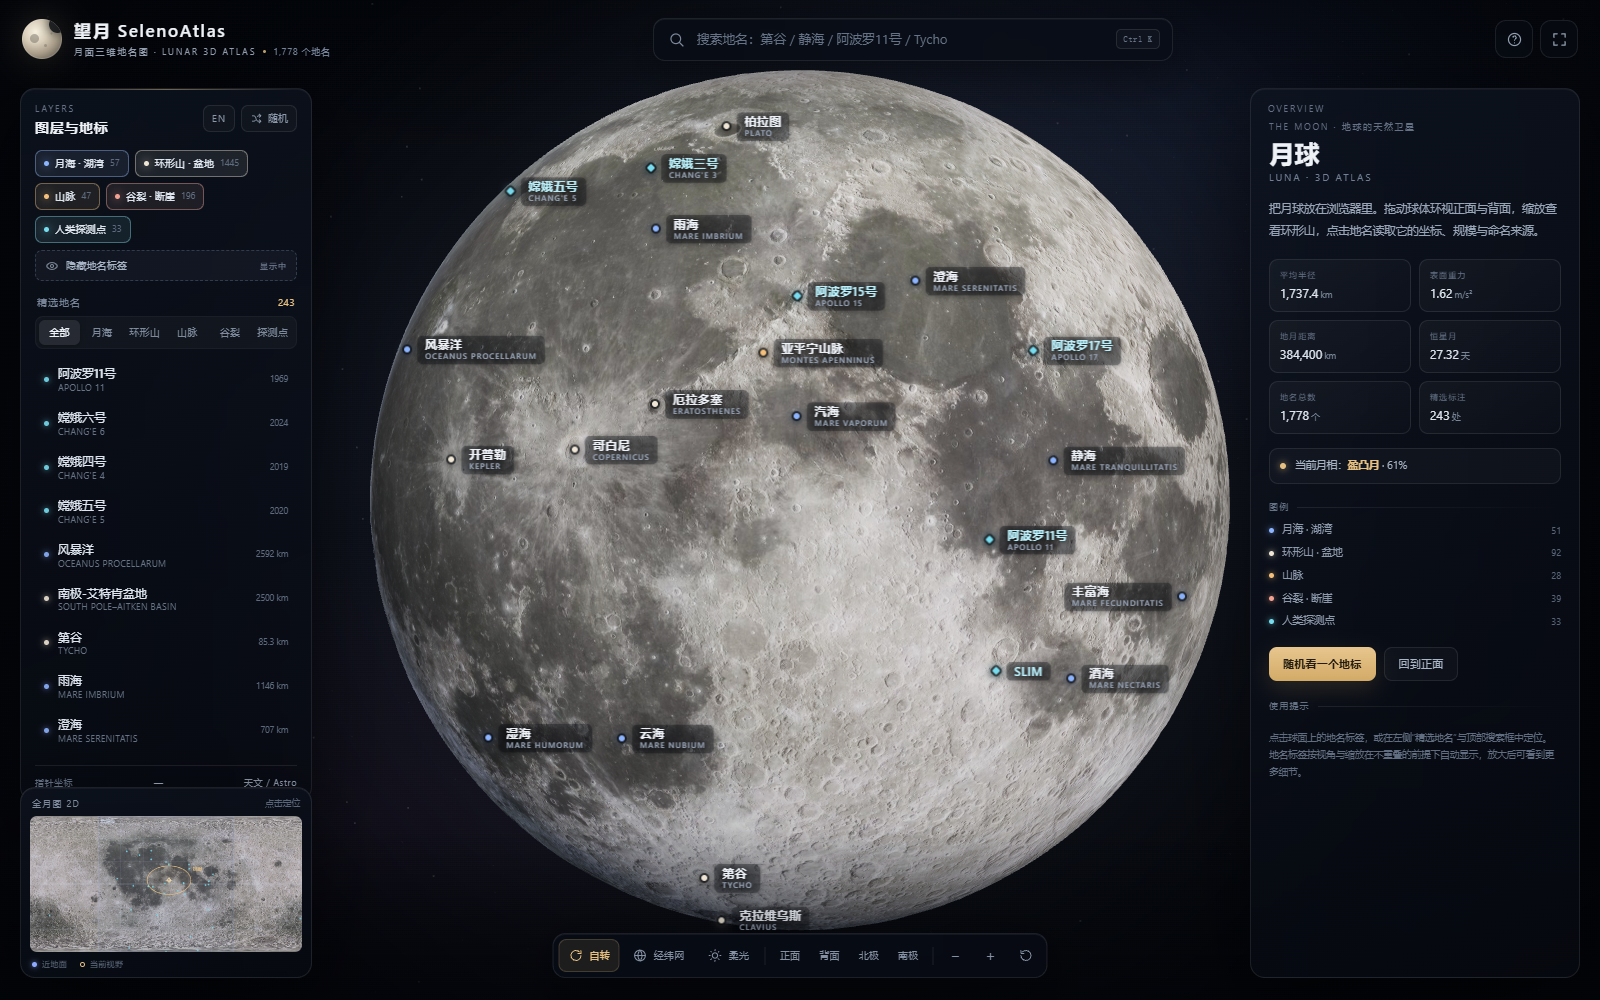
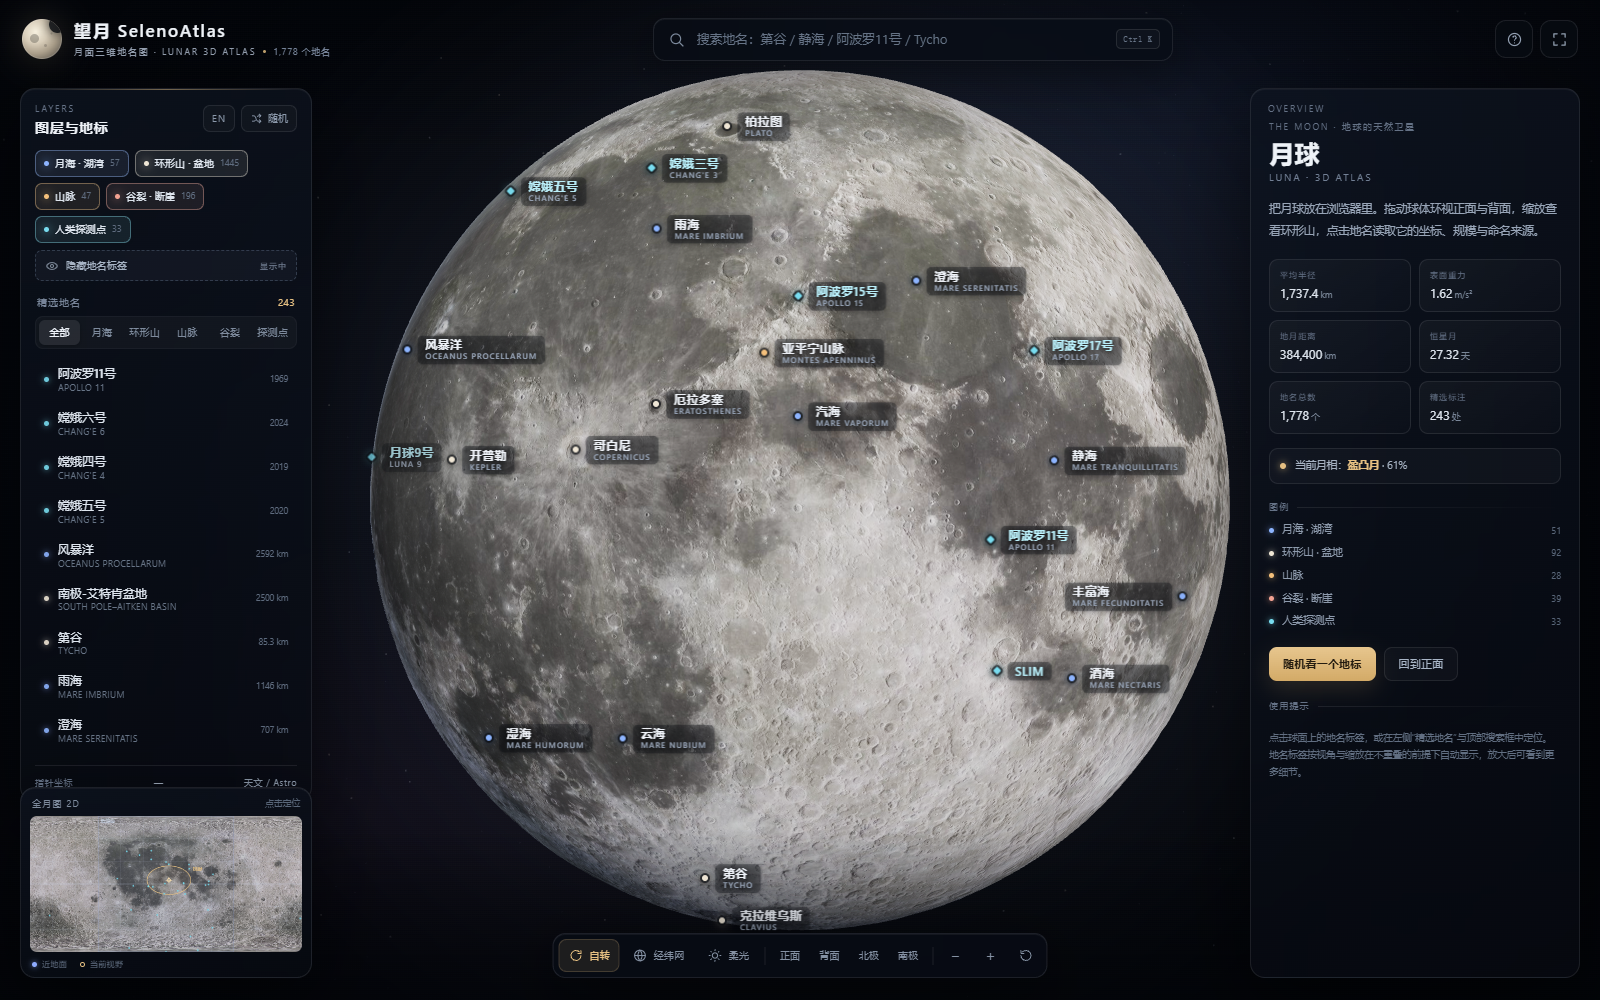
SelenoAtlas v1.5.3 stable: concise README and feature screenshots
- Promote v1.5.3 to latest stable after validation
- Remove buggy v1.5.0/v1.5.2 releases and tags
- Replace old screenshots with Overview, Astronomy, hide-labels, mobile overview and mobile search
- Streamline README while keeping install, signing, data, license and AI notes

diff --git a/README.md b/README.md
@@ -1,240 +1,129 @@
 # 望月 SelenoAtlas
 
 > **月面三维地名图 · Lunar 3D Atlas**  
-> 中文名：**望月** · 英文名：**SelenoAtlas**  
-> 把月球装进 Android 手机的三维地名图集。
+> 把月球装进 Android 手机的三维地名图集，完全离线。
 
-[![Build 望月 SelenoAtlas APK & Release](https://github.com/excessiverain/seleno-atlas/actions/workflows/android-release.yml/badge.svg)](https://github.com/excessiverain/seleno-atlas/actions/workflows/android-release.yml)
+[![Build APK & Release](https://github.com/excessiverain/seleno-atlas/actions/workflows/android-release.yml/badge.svg)](https://github.com/excessiverain/seleno-atlas/actions/workflows/android-release.yml)
 [![License: MIT](https://img.shields.io/badge/License-MIT-yellow.svg)](LICENSE)
 
 **下载稳定版 APK**：<https://github.com/excessiverain/seleno-atlas/releases/latest>
 
-**当前稳定版：v1.4.0** · Android 8.0+（minSdk 26）· 竖屏 · 4,228,213 字节（约 4.2 MB）  
-**预览版：v1.5.0 / v1.5.2 / v1.5.3**（已标记 Pre-release，不在 latest 中；功能更多，等待真机验证）
-
-![望月 SelenoAtlas](preview.png)
+当前稳定版：**v1.5.3** · Android 8.0+（minSdk 26）· 竖屏  
+APK：**4,235,638 字节（约 4.2 MB）**  
[1 lines of base64/hex data omitted]
 
 ---
+
+## 主要功能
+
+### 三维月面与地名
+
+- 4K LRO 彩色月面纹理 + LRO/LOLA 高程纹理
+- 1,778 个 IAU 地名，243 个精选标注自动避让
+- 中文名 / 拉丁名 / 旧译名 / 任务名搜索
+- 搜索框记忆最近 **12 条**搜索记录，重启后保留
+- 点击地名查看坐标、直径、命名来源与任务摘要
+
+![Overview](screenshots/01_overview.png)
+
+### Overview 与天文工具
+
+点击左上角月球图标打开 Overview，显示月面数据和当前月相。  
+左侧面板底部「天文 / Astro」提供：
+
+- 中英文月相名称、照明比例、月龄
+- 按日期查看历史月相
+- 中国农历传统日序（初/十/廿）
+- 干支年 / 月 / 日
+- 十二直
+- 2001–2035 年月食历史
+
+![天文工具](screenshots/02_astro.png)
+
+### 地名标签与检索
+
+- 左侧面板独立一行「隐藏地名标签 / 显示地名标签」，一键观察裸月面
+- 手机端搜索联想栏接近全屏宽度，中文/英文/类型/坐标完整显示
+
+![隐藏地名](screenshots/03_hide_labels.png)
+
+### 手机端
+
+- 底部控制栏自动换行，正面 / 背面 / 北极 / 南极按钮可见
+- 视角按钮再次点击可取消，恢复点选前视角
+- 近距离放大时自动降低拖动灵敏度
+- 左上角图标打开移动端 Overview 面板
+
+![手机端 Overview](screenshots/04_mobile_overview.png)
+
+![手机端搜索](screenshots/05_mobile_search.png)
+
+### 双语与系统适配
+
+- 中英文界面一键切换，选择会记忆
+- 英文界面使用英文地名、类型、任务信息和说明
+- Android 桌面名跟随系统语言：英文系统 **SelenoAtlas**，中文系统 **望月**
+- 英文日期采用 en-SG 风格（DD MMM YYYY）
+
+**其他功能（简短说明）**：真实日照按设备时间估算；全月 2D 小地图；经纬网；随机地名；APK 内置 MIT License、第三方声明与 AI 声明；关于页可打开 Legal 文件。
+
+## 安装与升级
+
+1. 打开 <https://github.com/excessiverain/seleno-atlas/releases/latest>；
+2. 下载 `SelenoAtlas-v1.5.3.apk`；
+3. 允许安装未知来源应用后安装。
+
+升级规则：
+
+- 已装 **v1.4.0 / v1.5.3**：可直接覆盖安装；
+- 仍在 **v1.3.x**：旧版为临时 debug 签名，需先卸载一次；
+- 旧版 v1.0.0 包名不同，需卸载旧应用。
+
+签名从 v1.4.0 起固定为 release keystore；证书 SHA-256：
+
+```text
+E4:A1:FE:EE:DA:AD:EC:0C:BB:91:26:CF:8B:EC:2B:6C:9B:E3:D9:3E:74:5C:7D:C8:FA:C6:11:10:1F:71:3B:71
+```
 
 ## 版本策略
 
-| 频道 | 版本 | 状态 |
-|---|---|---|
-| 稳定 / latest | **v1.4.0** | 固定签名，推荐安装；可覆盖 v1.4.0+ |
-| 预览 / Pre-release | v1.5.0、v1.5.2、v1.5.3 | 新增 Overview、隐藏地名、月相/月食/农历等；尚未完成真机稳定验证 |
-| 历史 | v1.0.0、v1.2.0、v1.3.x | 保留作历史存档；v1.3.x 为临时签名，不建议升级 |
-
-> v1.5.1 草稿构建已删除；v1.5.0 / v1.5.2 / v1.5.3 的 Release 已隐藏为 Pre-release，不再出现在 latest。
-
-## 功能（预览版 v1.5.x）
-
-- 三维月球球体：4K 彩色月面纹理 + 4K LRO/LOLA 高程纹理，真实月面起伏与凹凸
-- **1,778 个地名要素**，其中 243 个精选地名在球面上自动避让标注
-- 月海/湖、环形山/盆地、山脉、月谷/月溪/断崖/山脊、33 个人类探测点
-- 中文名 / 拉丁名 / 旧译名 / 任务名搜索
-- **最近搜索记忆**：记住最近 12 个搜索选中的地名，空搜索框聚焦时显示，可点击快速回到；支持一键清除，应用重启后仍保留
-- **视角按钮可取消**：再次点击已选中的正面 / 背面 / 北极 / 南极，回到点选这四个按钮之前的视角
-- **左上角 Overview 入口**：点击月球图标打开概览，不新增顶栏按钮
-- **动态拖动灵敏度**：放大观察时降低旋转灵敏度，远距离保持原有手感
-- **地名标签开关**：Layers 面板中独立一行「隐藏地名标签 / Show labels」，一键隐藏/显示球面地名标签，方便观察裸月面
-- **中英文月相名称**：新月、蛾眉月、上弦月、盈凸月、满月、亏凸月、下弦月、残月
-- **历史月相**：按日期查看月相名称、照明比例和中国农历日期
-- **月食历史**：2001–2035 年月食目录，按年份查看类型与食分
-- **中国农历/夏历**：显示传统农历日序（初一至三十，使用初/十/廿写法）、干支年/月/日、十二直；英文界面使用英语习惯的月序、干支、生肖和十二直名称，日期采用 en-SG 风格（DD MMM YYYY）
-- **中英双语界面**：自动跟随系统语言，可在左侧面板一键切换中文 / English；英文模式使用英文地名、英文类型与英文说明，中文地名作为副标签保留
-- **桌面名称跟随系统语言**：英文系统显示 **SelenoAtlas**，中文系统显示 **望月**
-- 手机端搜索联想栏已加宽，完整显示中文名、英文名、类型与坐标；结果按两行排布，长地名不再被截断
-- 手机端底部控制栏改为可换行布局，正面 / 背面 / 北极 / 南极按钮在窄屏上不再被隐藏
-- 点击地名查看坐标、直径、命名来源、任务摘要
-- 正面 / 背面 / 北极 / 南极、自动旋转、经纬网、柔光/真实日照
-- **真实日照按当前时间计算**：由设备时间推算月相与太阳直射经度，离线可用；属于低精度近似，未计月球天平动，不是星历级天文计算
-- 全月 2D 小地图，点击跳转
-- **完全离线**：纹理、地名、Three.js 全部打包在 APK 内，**不申请 INTERNET 权限**
-- **APK 内置许可与声明**：`LICENSE`、`THIRD_PARTY_NOTICES.md`、`AI_ASSISTANCE.md` 随包打包；关于页的 Legal 链接可直接打开
-- 手机视口自动降低球体分段数；退出应用后释放 WebView
-
-## 语言 / Language
-
-- 首次启动跟随系统语言：中文系统显示中文，英文系统显示 English；也可在左侧面板点击 **EN / 中** 随时切换，选择会记忆到下一次启动。
-- 英文界面下地名显示英文名，中文名作为副标签保留；搜索同时支持英文、中文和任务名。
-- 英文界面的命名来源区域保留原始中文资料，并标注 `(CHINESE SOURCE)`；UI、类型、任务信息和操作提示均已英文化。
-- **Android 桌面图标名**由系统资源自动选择：`values/` 英文资源为 `SelenoAtlas`，`values-zh/` 中文资源为 `望月`。切换系统语言后，桌面启动器会重新读取名称（个别启动器可能需要重启桌面）。
-
-| 中文界面 | English UI |
+| 版本 | 状态 |
 |---|---|
-| ![中文](screenshots/01_near_default.png) | ![English](screenshots/09_english.png) |
+| **v1.5.3** | 当前稳定 / latest |
+| v1.4.0 | 上一稳定版，固定签名，可继续安装 |
+| v1.5.0 / v1.5.1 / v1.5.2 | 测试版本，已删除或隐藏，不再提供 |
+| v1.0.0 / v1.2.0 / v1.3.x | 历史存档，不建议升级 |
 
-![手机端搜索联想栏](screenshots/12_mobile_search.png)
+## 权限与限制
 
-![手机端底部控制栏](screenshots/10_mobile.png)
+**无 Android 权限**：不申请 INTERNET、存储、定位、相机、麦克风等；全部数据离线。
 
-![关于页中的法律信息与 AI 声明](screenshots/11_about_legal.png)
+- 月相/历史月相为低精度近似，边界时刻可能有数小时误差；
+- 月食历史是 NASA GSFC 的 2001–2035 静态子集，不在运行时计算；
+- 农历依赖 WebView 的 ICU Chinese calendar；
+- 地图为科普可视化，不是测绘级 GIS。
 
-## 安装
+## 数据与许可
 
-1. 打开 <https://github.com/excessiverain/seleno-atlas/releases/latest>；
-2. 下载 `SelenoAtlas-v1.4.0.apk`（稳定版）；如需体验新功能，可到 v1.5.2 的 Pre-release 页面下载预览版；
-3. Android 手机如提示“禁止安装未知应用”，在系统设置中允许当前浏览器/文件管理器安装；
-4. 安装后打开「望月 SelenoAtlas」。
+- 地名：嫦娥二号月球地图 / IAU-USGS Gazetteer / 中国天文学会名词数据库
+- 彩色纹理：Solar System Scope（CC BY 4.0，基于 NASA LRO）
+- 高程：LRO LOLA / WAC GLD100
+- 月食：NASA GSFC / Fred Espenak & Jean Meeus
+- 引擎：Three.js r128（MIT）
 
-> **从旧版升级**：v1.2.x / v1.3.x 使用新的 `applicationId`（`com.excessiverain.selenoatlas`），属于新应用，不能覆盖安装 v1.0.0。请先卸载旧的「月面三维地名图」，再安装望月 SelenoAtlas。  
-> **v1.4.0 起固定签名**：v1.4.0 / v1.5.x 使用同一 release keystore；若从 v1.3.x 首次升级，仍需卸载一次，之后可直接覆盖升级。
+**代码和文档**：MIT（见 [LICENSE](LICENSE)）。  
+**第三方素材**：不纳入 MIT，见 [THIRD_PARTY_NOTICES.md](THIRD_PARTY_NOTICES.md)。  
+**AI 辅助**：部分代码/UI/文档在 `deepseek-v4.1-flash-1017` 辅助下完成，经人工复核与构建测试；应用运行时不调用 AI。详见 [AI_ASSISTANCE.md](AI_ASSISTANCE.md)。
 
-v1.4.0 稳定版 APK：**4,228,213 字节（约 4.2 MB）**  
[1 lines of base64/hex data omitted]
-签名证书 SHA-256：`E4:A1:FE:EE:DA:AD:EC:0C:BB:91:26:CF:8B:EC:2B:6C:9B:E3:D9:3E:74:5C:7D:C8:FA:C6:11:10:1F:71:3B:71`  
-Release 中同时提供 `.sha256` 文件。包名 `com.excessiverain.selenoatlas`，中文系统桌面显示 **望月**，英文系统桌面显示 **SelenoAtlas**。APK 的 `assets/legal/` 内含 `LICENSE.txt`、`THIRD_PARTY_NOTICES.txt`、`AI_ASSISTANCE.txt`。
-
-**预览版 v1.5.3**：<https://github.com/excessiverain/seleno-atlas/releases/tag/v1.5.3>（Pre-release；包含 v1.5.x 新功能，未作为 latest）
-
-> 从 v1.4.0 起，CI 使用固定 release keystore 签名（GitHub Actions secret `SELENO_SIGNING_JSON`），所有后续版本证书一致，可正常覆盖升级。  
-> 请妥善备份 keystore；丢失后将无法继续覆盖升级。密钥不会提交到仓库。
-
-## 权限
-
-**无。** 应用不申请网络、存储、定位、相机、麦克风等任何权限。
-
-- 点开详情里的「嫦娥二号地图」外链时，会交给系统浏览器打开；
-- 应用本身不联网，也不收集任何数据。
-
-## 环境要求
-
-| 项目 | 要求 |
-|---|---|
-| Android | 8.0（API 26）及以上 |
-| WebView | 推荐系统 Chrome/WebView 较新版本（可运行 WebGL） |
-| 内存 | 4 GB RAM 以上建议使用 4K 纹理版；3 GB 及以下设备如有卡顿可自行降级纹理构建 |
-| 屏幕 | 竖屏手机；430×860 已验证，360×800 建议真机确认 |
-| 存储 | APK 约 4.2 MB，安装后约 10–15 MB |
-
-## 从源码构建
-
-仓库结构：
-
-```text
-.
-├─ .github/workflows/android-release.yml   # tag 触发构建并自动发布 Release
-├─ android/                                # 原生 WebView 壳（Java，无第三方依赖）
-│  ├─ app/src/main/java/.../MainActivity.java
-│  ├─ app/src/main/assets/                 # 构建时由 Gradle 从 ../web 复制
-│  └─ app/src/main/res/                    # 图标 / 主题 / 字符串
-├─ web/                                    # 单文件 Web 版与源码
-│  ├─ moon_atlas.html
-│  ├─ src/ data/ textures/ vendor/ build/
-│  └─ data/reference/
-├─ docs/qa_label_audit.md
-├─ screenshots/
-└─ README.md
-```
-
-### 本地构建（需要 Android SDK + JDK 17）
+## 构建与发布
 
 ```bash
-# 在仓库根目录
-cd android
-gradle assembleRelease
-# 产物：android/app/build/outputs/apk/release/app-release.apk
+# Web 单文件
+node web/build/build_html.mjs
+
+# Android APK（需要 JDK 17 + Android SDK）
+gradle -p android assembleRelease
 ```
 
-`android/app/build.gradle` 中的 `copyWebAsset` 任务会自动把 `web/moon_atlas.html` 复制到 `app/src/main/assets/`，无需在仓库里重复提交 6 MB 的 asset 副本。`copyLegalAssets` 会把根目录的 `LICENSE`、`THIRD_PARTY_NOTICES.md`、`AI_ASSISTANCE.md` 复制为 `assets/legal/*.txt`。
-
-### 固定签名（v1.4.0+）
-
-从 v1.4.0 开始，CI 不再每次生成临时 debug key，而是从仓库 Secret 读取固定 keystore：
-
-- Secret 名：`SELENO_SIGNING_JSON`
-- 值：`{"base64":"<PKCS12 keystore base64>","password":"<password>","alias":"selenoatlas"}`
-- Workflow 会解码到 `$RUNNER_TEMP/seleno-release.p12`，通过 `RELEASE_STORE_FILE` 等环境变量交给 Gradle。
-
-请把 keystore 原始文件和密码单独备份；Secret 丢失后无法再发布同签名的新版本。不要将 keystore 提交到仓库。
-
-### 发布新版本
-
-```bash
-git tag v1.5.3
-git push origin v1.5.3
-```
-
-推送 tag 后，GitHub Actions 会：
-
-1. 安装 JDK 17 / Android SDK 34；
-2. 构建 `assembleRelease`；
-3. 生成 `SelenoAtlas-v1.5.3.apk` 与 `.sha256`；
-4. 自动创建 GitHub Release 并上传 APK。
-
-也可在 Actions 页面手动运行 `workflow_dispatch`（只生成 artifact，不创建 Release）。
-
-## 技术实现
-
-- 原生壳：单 `Activity` + 全屏 `WebView`，加载 `file:///android_asset/moon_atlas.html`
-- Web 页面：Three.js r128，单文件离线，无 CDN、无后端
-- 外链：`http(s)` 通过 `JavascriptInterface` 交给系统浏览器
-- 返回键：WebView 有历史时后退，否则退出
-- 屏幕方向：锁定竖屏；状态栏/导航栏黑色，不强制 edge-to-edge
-- 签名：CI 使用固定 release keystore（GitHub Actions secret `SELENO_SIGNING_JSON`），本地无 env 时回退 debug keystore
-
-## 天文 / Astronomy
-
-- **左上角月球图标**打开 Overview，显示当前月相、照明比例和关键数据；手机端以底部面板呈现。
-- **左侧面板底部「天文 / Astro」**打开天文工具：
-  - 选择日期查看历史月相、月龄和照明
-  - 查看对应中国农历日期（传统初/十/廿日序）、干支年/月/日、十二直
-  - 英文界面显示英语月序、干支和十二直名称，日期采用 en-SG 的 DD MMM YYYY 风格
-  - 按年份浏览 2001–2035 年月食历史
-- 月相名称和农历会跟随中文/English 切换。
-- 月食数据为 NASA GSFC 公开目录的静态子集，不在应用内计算；数据来源已在上述「数据与影像来源」和 `THIRD_PARTY_NOTICES.md` 中署名。
-- 天文功能全部离线，不申请定位、通知等权限。
-
-## 数据与影像来源
-
-- 地名：嫦娥二号月球地图（greensea）／IAU-USGS Gazetteer／中国天文学会天文学名词数据库
-- 彩色月面纹理：Solar System Scope Moon texture（基于 NASA LRO 影像）
-- 高程：LRO LOLA / WAC GLD100 高程镜像（Jaanga heightmaps）
-- 月食历史：NASA GSFC / Fred Espenak & Jean Meeus, Five Millennium Catalog of Lunar Eclipses（2001–2035 子集，公开数据，需署名）
-- 月相与农历：低精度月相算法；中国农历优先使用 WebView `Intl` Chinese calendar
-- 干支/十二直：按低精度太阳黄经与节气边界计算；节气边界附近可能有少量误差
-- 农历日序：由 ICU 的农历日数字转换为传统初/十/廿写法
-- 三维引擎：Three.js r128
-- 交互参考：[嫦娥二号月球地图](https://ce2.greensea.org/)
-
-许可、完整署名与修改说明见 [THIRD_PARTY_NOTICES.md](THIRD_PARTY_NOTICES.md)。
-
-独立地名审校报告见 [docs/qa_label_audit.md](docs/qa_label_audit.md)：修正了莫斯科海、界海、南极-艾特肯盆地等 7 处显著坐标错误，并对差异较大的大型地貌采用 IAU LOLA 2011 坐标。
-
-## English
-
-**SelenoAtlas (望月)** is an offline Android WebView atlas of lunar place names. It renders a rotatable 3D Moon with 4K LRO color imagery and 4K LOLA elevation, 1,778 IAU-named features and 243 featured labels. The UI is bilingual (Chinese / English), follows the system language on first launch, and can be switched at any time with the **EN / 中** button in the Layers panel. The English mode uses English feature names, type names, mission metadata and descriptions; Chinese names are retained as secondary labels. No internet, storage, location or camera permissions are requested.
-
-## 已知限制
-
-- 4K 纹理在低端设备上可能有显存压力；如遇闪退可构建 2K 纹理版本。
-- “真实日照”为按设备时间计算的低精度月相/太阳直射方向，未计月球天平动与轨道偏心率，误差可能在数度量级；适合科普展示，不是星历级天文计算。
-- 页面为竖屏优化，横屏/平板布局未专门适配。
-- 地图为科普可视化，不是测绘级 GIS；着陆点坐标为任务公布值/IAU 命名点。
-- 外链需要在系统浏览器中联网查看，应用本身离线。
-- 固定签名密钥保存在 GitHub Actions Secret 中；请自行备份 keystore，丢失后无法覆盖升级。
-
-## AI 辅助声明 / AI Assistance
-
-本项目部分代码、UI 文案与文档在 AI 助手（**`deepseek-v4.1-flash-1017`** / DeepSeek Harness）辅助下完成，并由维护者人工复核、构建和测试。应用运行时不调用任何 AI 模型，不包含生成式 AI 功能，完全离线。第三方地名、纹理和高程数据仍遵循各自来源的许可与署名，详见 [THIRD_PARTY_NOTICES.md](THIRD_PARTY_NOTICES.md)。AI 辅助内容仍可能存在错误，欢迎通过 Issue 指正。完整声明见 [AI_ASSISTANCE.md](AI_ASSISTANCE.md)；v1.4.0 的 APK 内也包含该声明，可从关于页的 Legal 链接打开。
-
-## License / 许可
-
-**Original source code and documentation** © 2026 excessiverain, released under the
-[MIT License](LICENSE). This includes the Android WebView shell, the Web app source,
-build scripts and project documentation.
-
-**Third-party imagery and data are not relicensed by MIT.** Lunar color textures,
-LOLA/GLD100 elevation, IAU/USGS gazetteer data, Chinese translations and mission
-data remain subject to their respective source terms. See
-[THIRD_PARTY_NOTICES.md](THIRD_PARTY_NOTICES.md) for attribution, license links and
-modification notes.
-
-The same `LICENSE`, `THIRD_PARTY_NOTICES.md` and `AI_ASSISTANCE.md` files are copied
-into the APK as `assets/legal/*.txt` and are reachable from the About page's Legal links.
-
-The SelenoAtlas name, icon and visual identity are not licensed for use as a
-separate product or service identity. This project is not affiliated with NASA,
-IAU, USGS, Solar System Scope or the Chang'e-2 mission team.
-
----
+推送 `v*` tag 后，GitHub Actions 使用固定 keystore 构建 APK、生成 `.sha256` 并发布 Release。  
+数据审校记录：[docs/qa_label_audit.md](docs/qa_label_audit.md)
